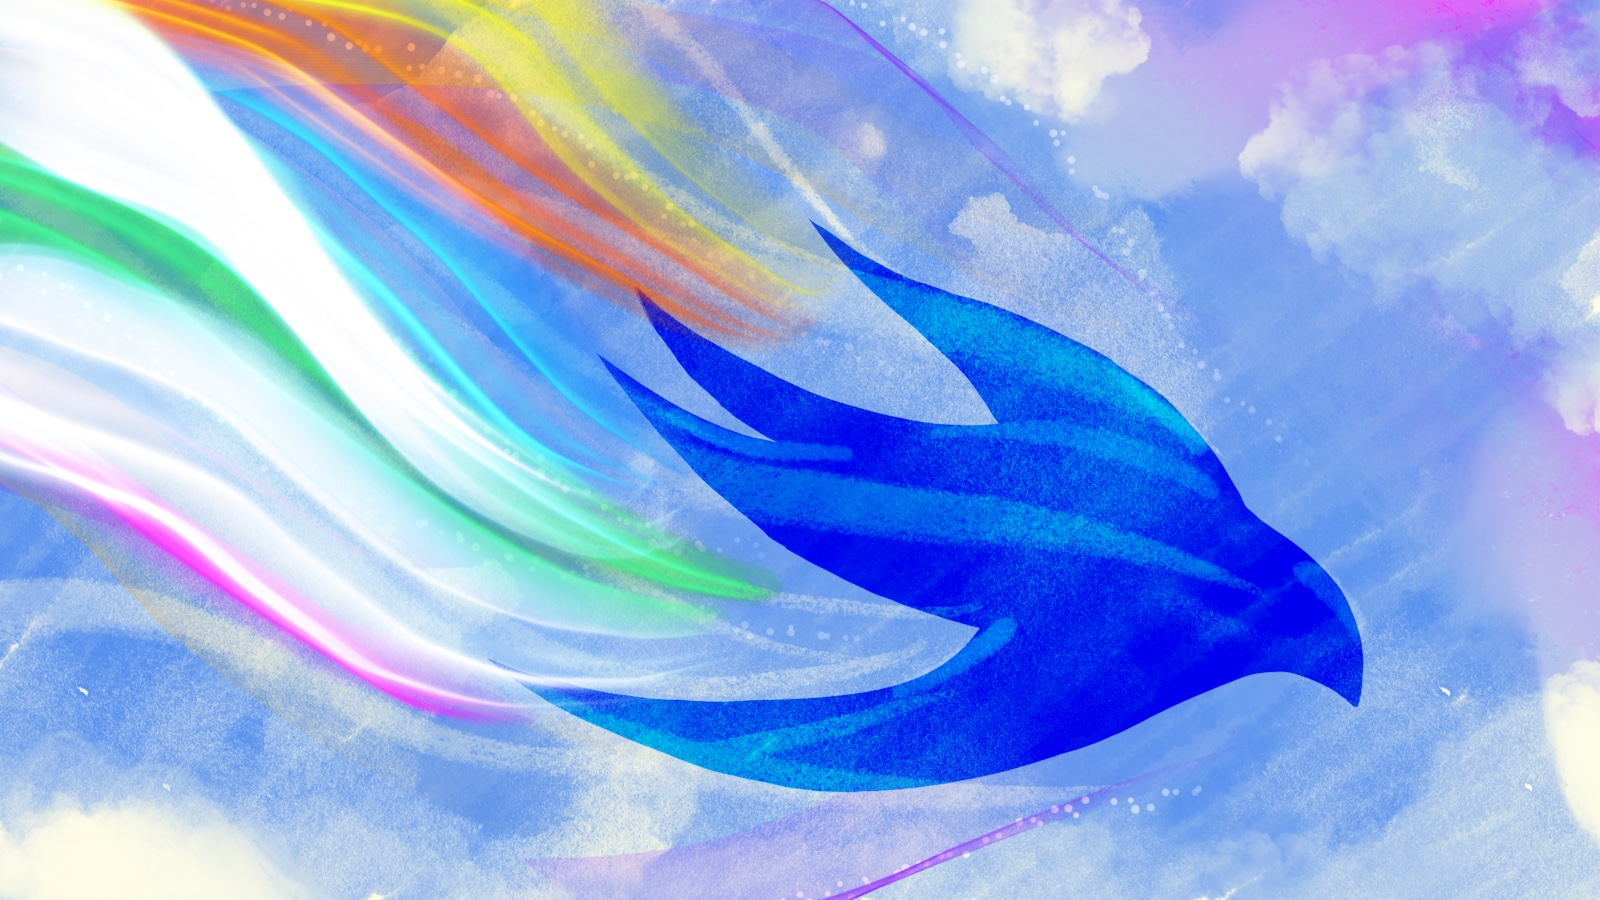
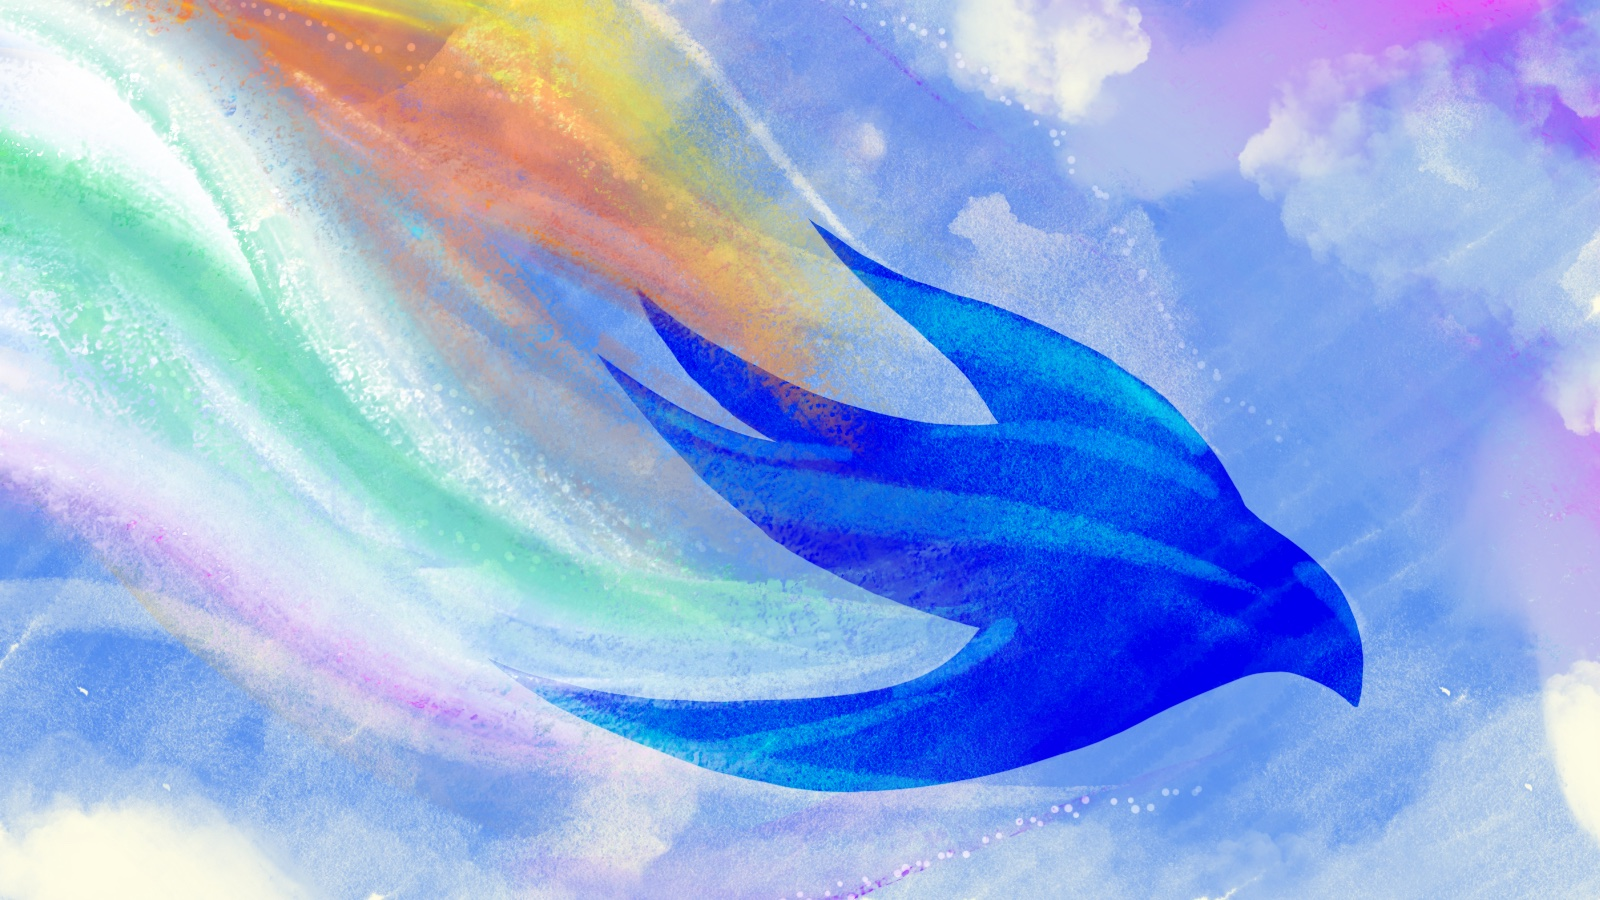
Update header images

diff --git a/content/posts/2019-11-25-launching-swift-ui-directory/index.md b/content/posts/2019-11-25-launching-swift-ui-directory/index.md
@@ -1,17 +1,19 @@
 ---
 date: 2019-11-25T09:25+01:00
 title: "Launching SwiftUI Directory"
-category:
+category: journal
 tags:
   - Swift
   - SwiftUI
   - OSS
-audience: "SwiftUI developers struggling to find open source libraries to solve specific problems."
+audience: "SwiftUI developers having a hard time finding the right open source library"
 ---
 
 Today I am happy to launch [SwiftUI Directory],
 a curated list of open-source SwiftUI libraries that are painstakingly scouted,
 categorized, and tagged for anyone who’s looking to solve a particular problem within the nascent framework.
+
+![SwiftUI Directory](header-image.png)
 
 SwiftUI represents an exciting opportunity for the open-source ecosystem around Apple platforms.
 An opportunity that many good samaritans are jumping on to fill the gaps of SwiftUI’s current embryonic state.
